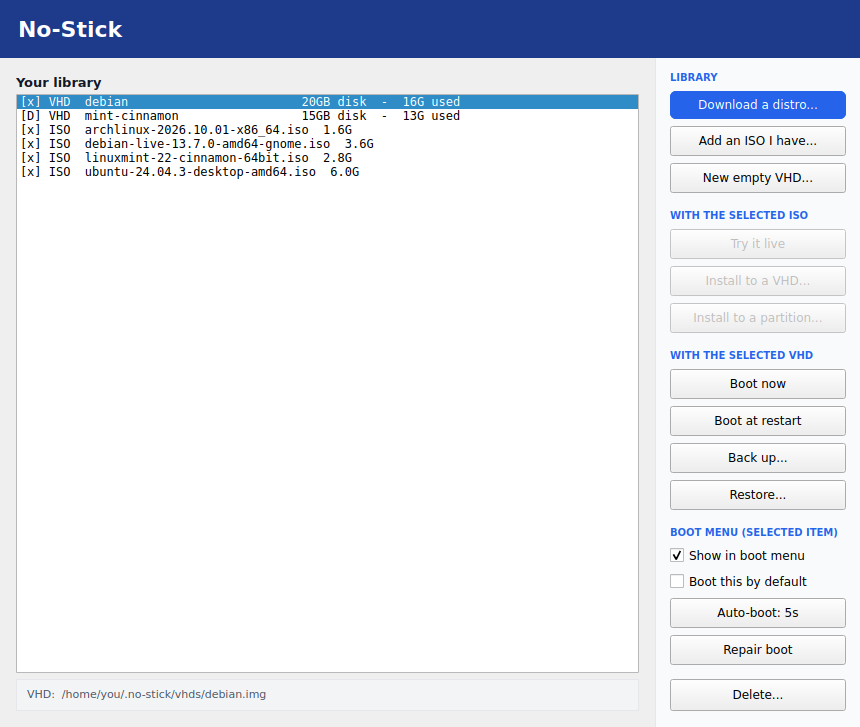
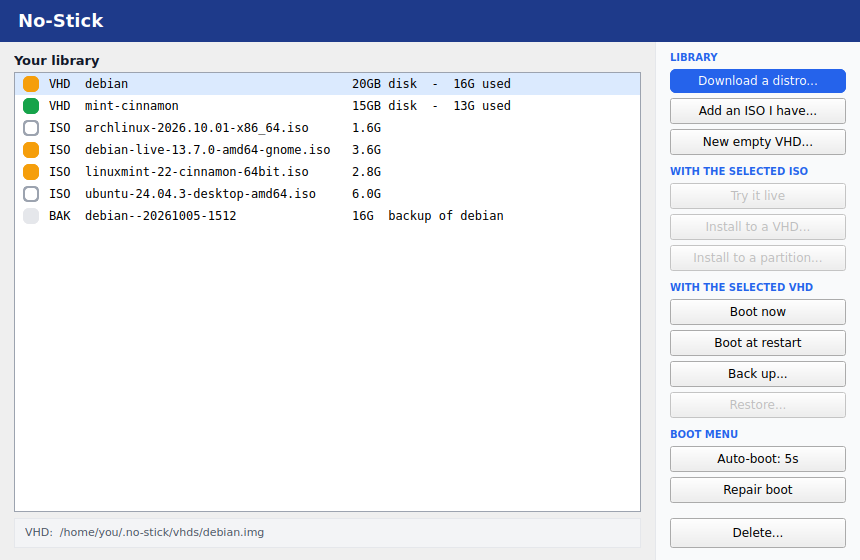
No-Stick 0.6.0: clickable row markers, right-click menu, rename, backup and restore, smaller window

Changed region(s): [[0.0, 0.0, 1.0, 0.9714], [0.393, 0.3036, 0.6047, 0.3946], [0.0302, 0.9411, 0.3326, 0.9714]]

diff --git a/README.md b/README.md
@@ -28,13 +28,17 @@ something to the boot menu. Re-run the same command to update.
   disk-image file, never your real drives. No-Stick then prepares the result to boot on real hardware.
 - **One boot-menu entry.** Your main boot menu gains a single "No-Stick" entry. Everything else lives in
   No-Stick's own menu, so your existing entries are never edited.
-- **Tick what you want in the menu**, choose a default, and optionally set a timer to boot it by itself.
+- **One click puts something in the menu.** Each row has a marker: empty is not in the boot menu, orange is in it,
+  green is the default. Right-click a row for the rest: default, rename, back up, delete. A timer can boot the
+  default by itself.
 - **Boot at restart** boots one chosen disk once, then your PC goes back to normal.
 - **Boot now** restarts straight into a disk in seconds (kexec). Experimental.
 - **Try an ISO live** from the menu, without installing. New and lightly tested.
+- **Back up and restore.** A backup is a copy of the disk that takes only the space actually used; restoring
+  makes a new disk, so nothing is overwritten.
 - **Repair boot** rebuilds a disk's boot setup after an update or if something stops booting.
 
-Everything lives in `~/.no-stick`: ISOs in `isos/`, disks in `vhds/`.
+Everything lives in `~/.no-stick`: ISOs in `isos/`, disks in `vhds/`, backups in `backups/`.
 
 ## What works today
 
